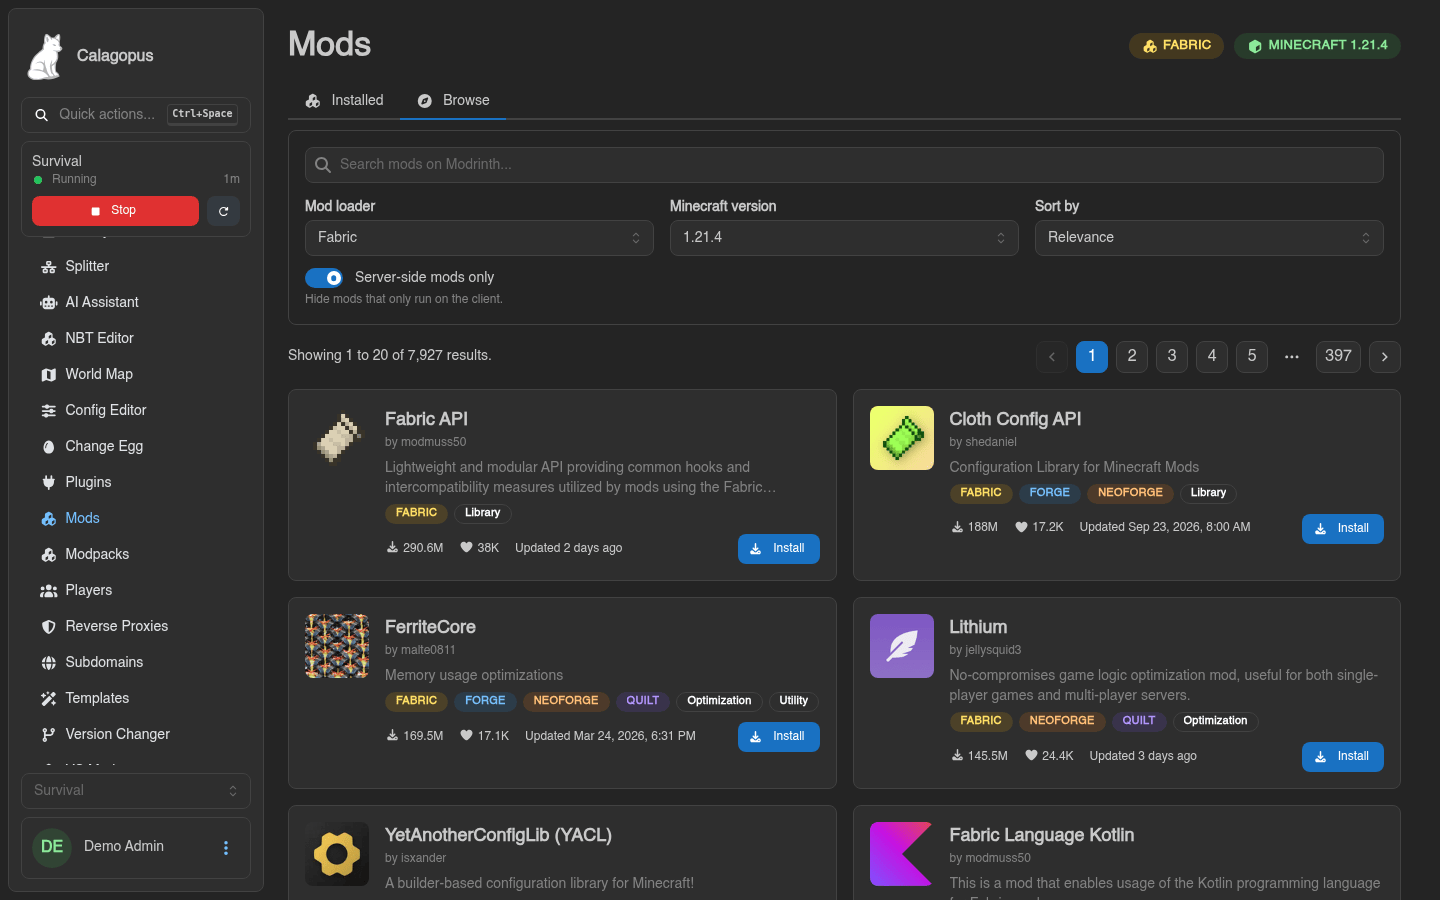
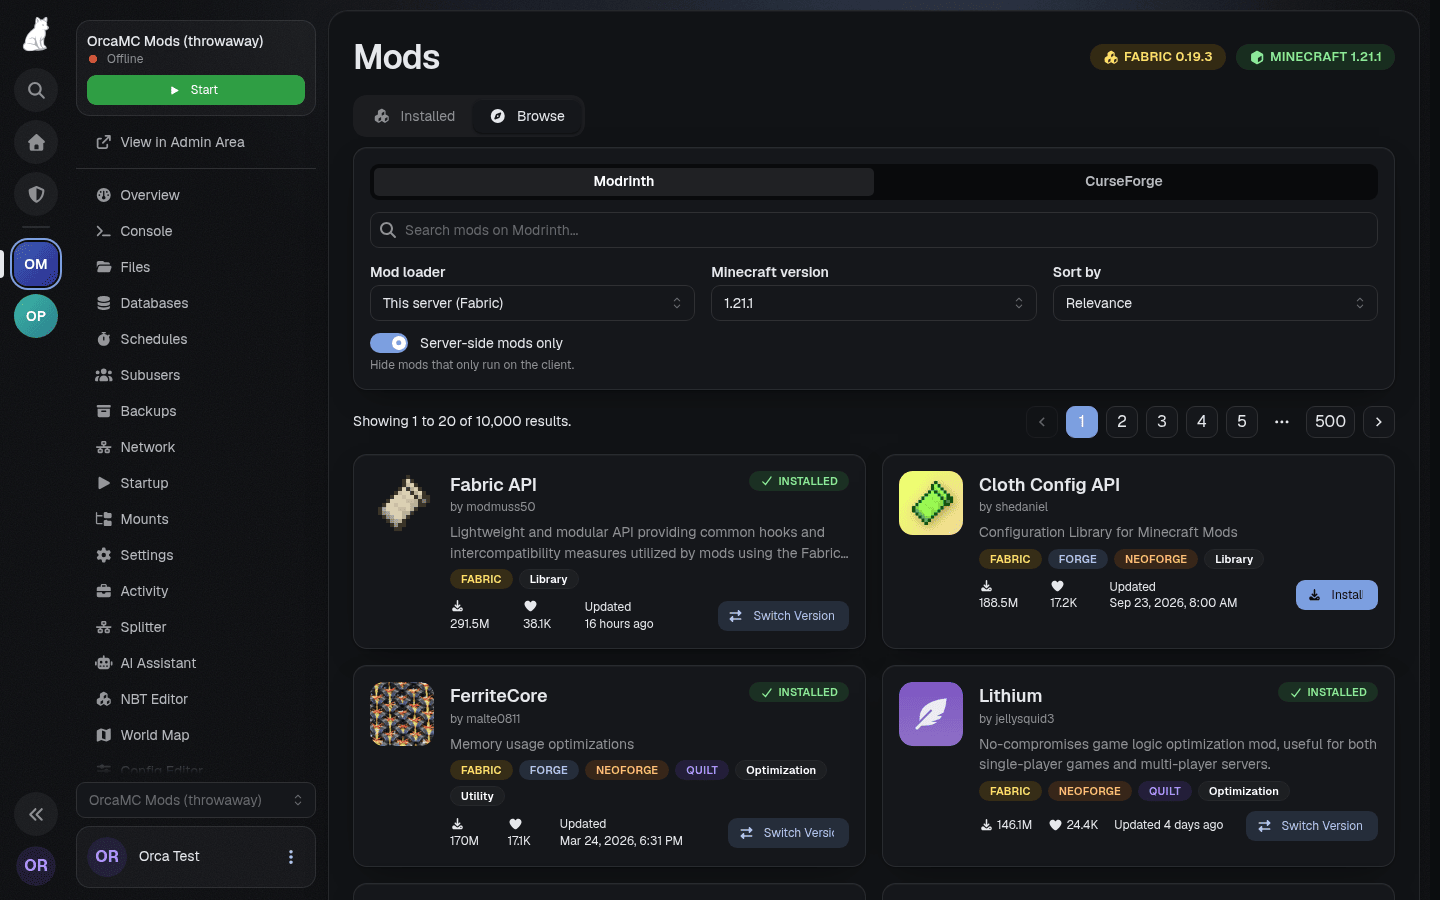
docs: refresh README screenshots
- Taken on devpanel (panel 1.2.11) with the overhauled pages: Browse, Install, Installed, Server software, admin settings.

diff --git a/README.md b/README.md
@@ -57,17 +57,31 @@ Package name: `dev.caloptreyx.modinstaller` · Requires panel `>=1.2.10`
 
 ## Screenshots
 
-**Browse**: Modrinth mods filtered to the detected loader and Minecraft version.
+**Browse**: Modrinth mods filtered to the detected loader and Minecraft version, with the Modrinth / CurseForge switch.
 
 ![Browse tab with Modrinth results](docs/screenshots/browse.png)
 
-**Install Mod modal**: loader and Minecraft version default to what was detected.
+**Install Mod modal**: loader and Minecraft version default to what was detected; required mods are offered too.
 
 ![Install Mod modal](docs/screenshots/install-modal.png)
 
-**Installed**: every jar in `mods/`, identified on Modrinth and CurseForge, with enable switches.
+**Installed**: every jar in `mods/`, identified on Modrinth and CurseForge, with updates, problem flags and the
+mods of the installed modpack marked.
 
 ![Installed mods list](docs/screenshots/installed.png)
+
+**Server software**: what was detected, from where, and the manual override.
+
+![Server software panel](docs/screenshots/server-software.png)
+
+**CurseForge manual download**: a file the author keeps on CurseForge is installed from its identical Modrinth copy,
+or uploaded by hand and checked against CurseForge's fingerprint.
+
+![CurseForge manual download](docs/screenshots/curseforge-manual-download.png)
+
+**Admin settings**: the optional CurseForge API key.
+
+![MC Mod Installer admin settings](docs/screenshots/admin-settings.png)
 
 ## Installation
 
